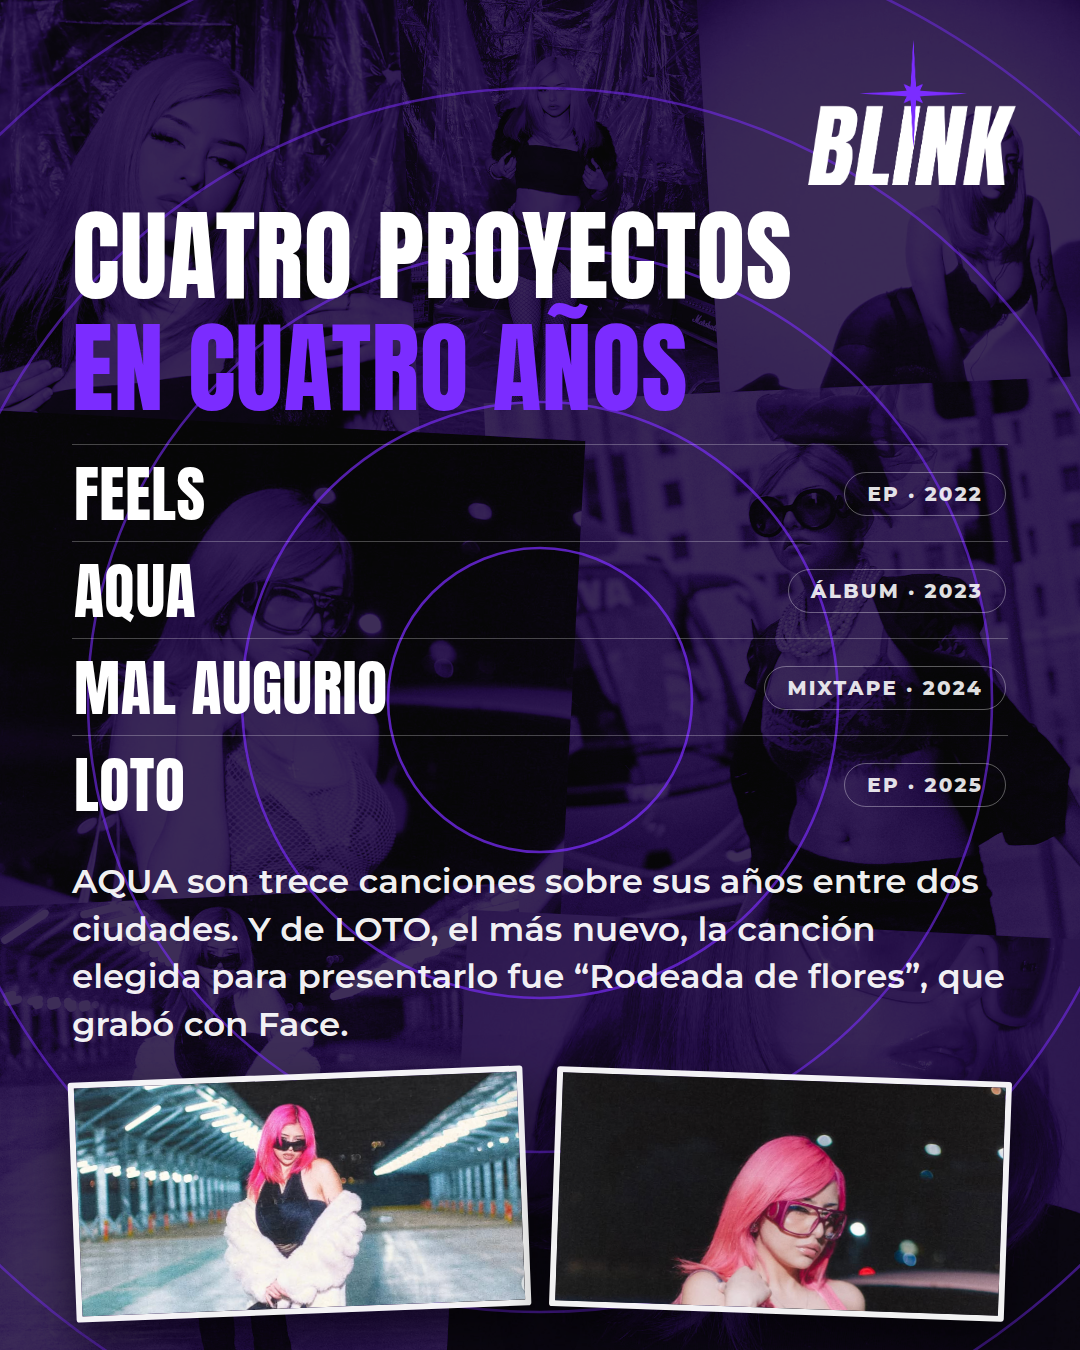
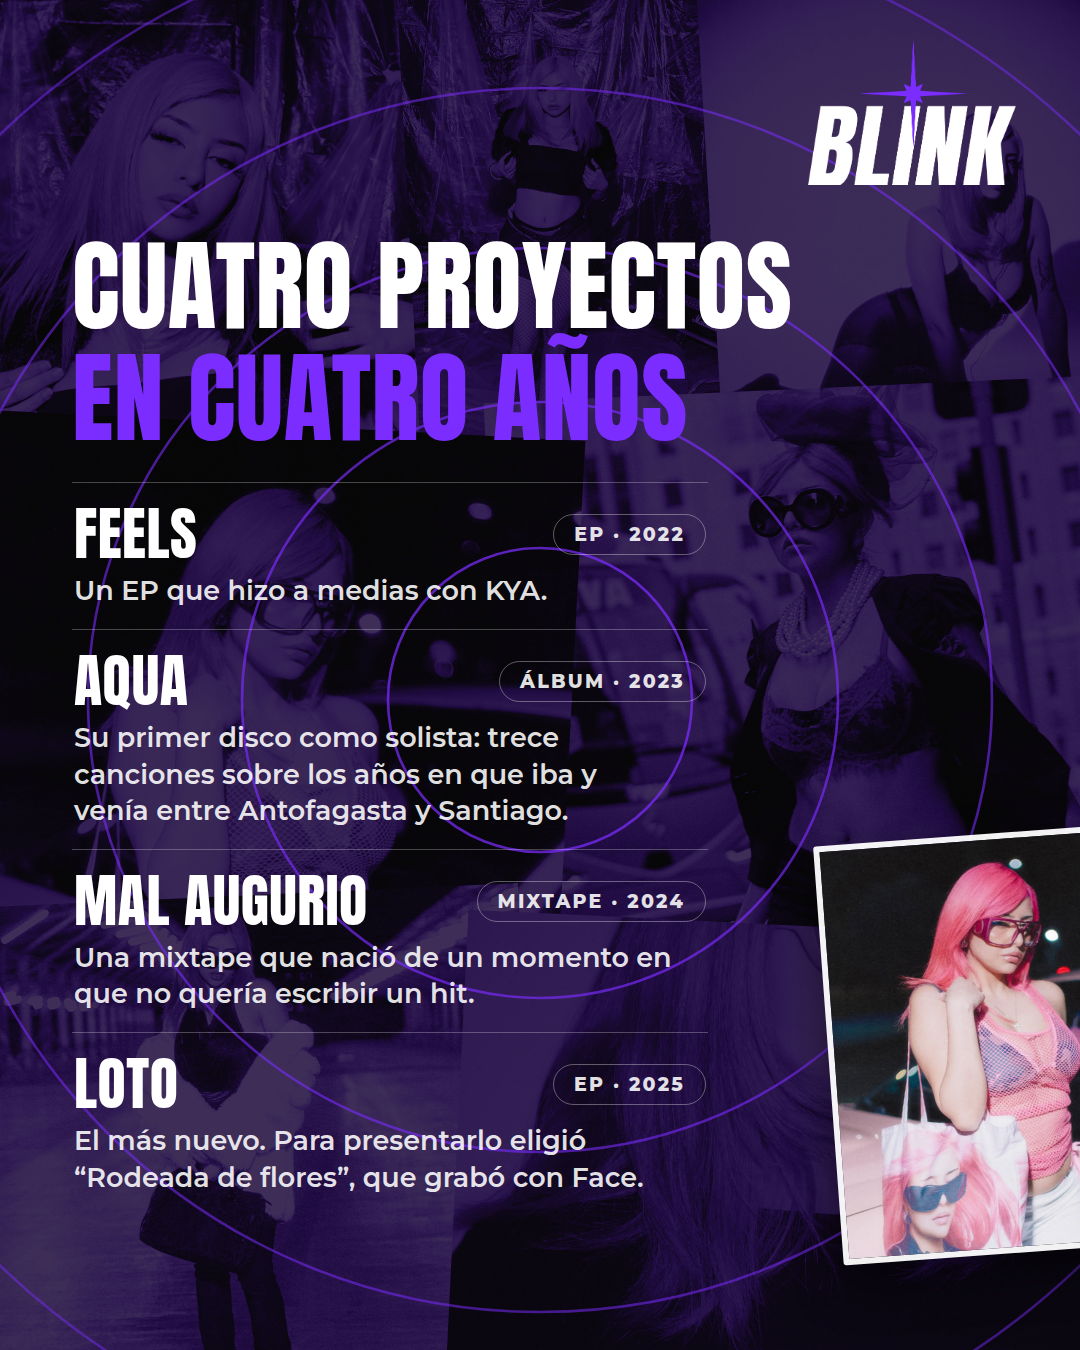
Lámina 4: un proyecto por fila en vez de un párrafo apretado
El párrafo metía los cuatro proyectos adentro y no se entendía: "sus años
entre dos ciudades" no decía cuáles y "la canción elegida" no decía por
quién. Ahora cada proyecto tiene su línea explicativa, con más aire entre
filas, y la de LOTO dice derecho que para presentarlo eligió "Rodeada de
flores", que grabó con Face.

Las filas con descripción quedan anotadas en CLAUDE.md como el recurso para
cuando hay varias cosas que explicar.

Claude-Session: https://claude.ai/code/session_01NF4PN4Z1tGA2GQg6PseM5W

diff --git a/radar-vlntnab.html b/radar-vlntnab.html
@@ -229,7 +229,7 @@
   .filasDesc{ display:flex; flex-direction:column; }
   .filasDesc .fila{
     border-top:1.5px solid rgba(255,255,255,.26);
-    padding:20px 2px 18px;
+    padding:22px 2px 20px;
   }
   .filasDesc .cab{ display:flex; align-items:center; justify-content:space-between; gap:20px; }
   .filasDesc .cab b{
@@ -435,22 +435,20 @@ const LAMINAS = {
     recorte("vlntnb2.png", "sangra") },
 
   4: { html:
-    '<div class="cuerpo apretado arriba">' +
+    '<div class="cuerpo angosto">' +
       titular("Cuatro proyectos", "en cuatro años") +
-      filas([
-        ["FEELS",       "EP · 2022"],
-        ["AQUA",        "Álbum · 2023"],
-        ["MAL AUGURIO", "Mixtape · 2024"],
-        ["LOTO",        "EP · 2025"]
+      filasDesc([
+        ["FEELS", "EP · 2022",
+         "Un EP que hizo a medias con KYA."],
+        ["AQUA", "Álbum · 2023",
+         "Su primer disco como solista: trece canciones sobre los años en que iba y venía entre Antofagasta y Santiago."],
+        ["MAL AUGURIO", "Mixtape · 2024",
+         "Una mixtape que nació de un momento en que no quería escribir un hit."],
+        ["LOTO", "EP · 2025",
+         "El más nuevo. Para presentarlo eligió “Rodeada de flores”, que grabó con Face."]
       ]) +
-      '<p class="texto">AQUA son trece canciones sobre sus años entre dos ciudades. ' +
-      'Y de LOTO, el más nuevo, la canción elegida para presentarlo fue “Rodeada de ' +
-      'flores”, que grabó con Face.</p>' +
-      '<div class="parDeFotos corta">' +
-        recorte("vlntnb5.png", "", "50% 31%") +
-        recorte("vlntnb7.png", "", "42% 5%") +
-      '</div>' +
-    '</div>' },
+    '</div>' +
+    recorte("vlntnb7.png", "sangra") },
 
   5: { html:
     '<div class="cuerpo angosto">' +

diff --git a/CLAUDE.md b/CLAUDE.md
@@ -473,6 +473,10 @@ publicación. La base viene del Radar de Kittkatta.
   lado. Es donde va una cita.
 - **Filas con separadores**: línea fina arriba de cada una, el nombre en Anton y
   una etiqueta en pastilla a la derecha.
+- **Filas con descripción**: las mismas filas, pero con una línea debajo del nombre
+  que explica qué es esa cosa. Es la salida cuando hay varios discos o varias
+  canciones que explicar: metidos todos en un mismo párrafo quedan densos y no se
+  entiende cuál es cuál, y repartidos en filas cada uno respira y se lee solo.
 - **El casete de VHS**: carcasa, etiqueta blanca arriba con el nombre del disco,
   ventana negra con tres fotos y los dos carretes abajo.
 - **El recuadro de video**: 16:9 exacto (936×527), centrado en todo el alto, con
